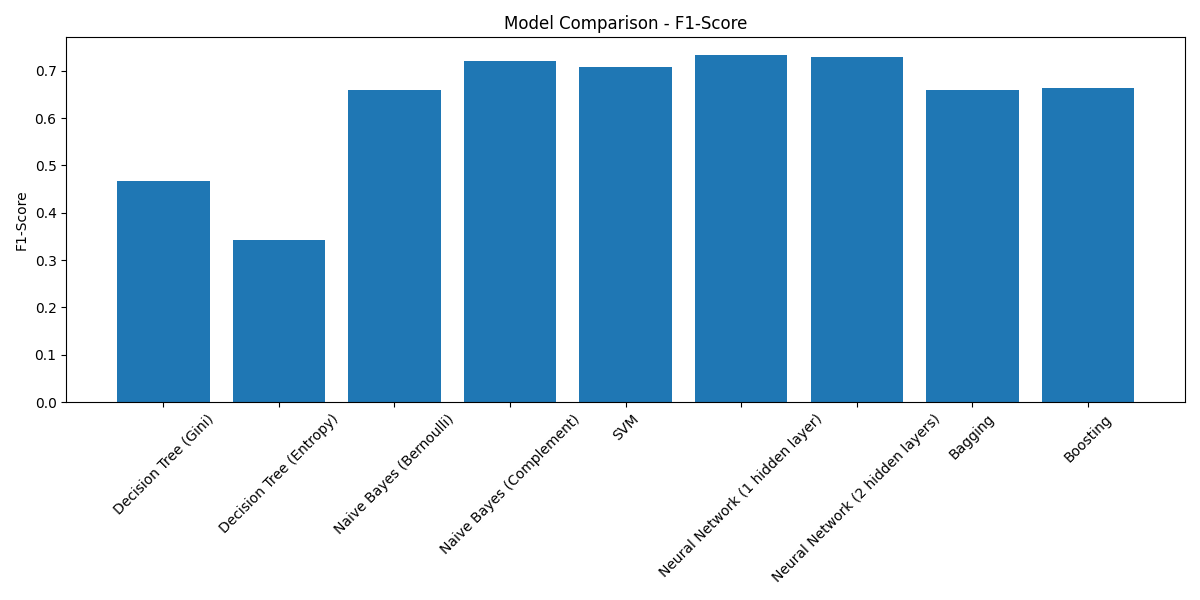
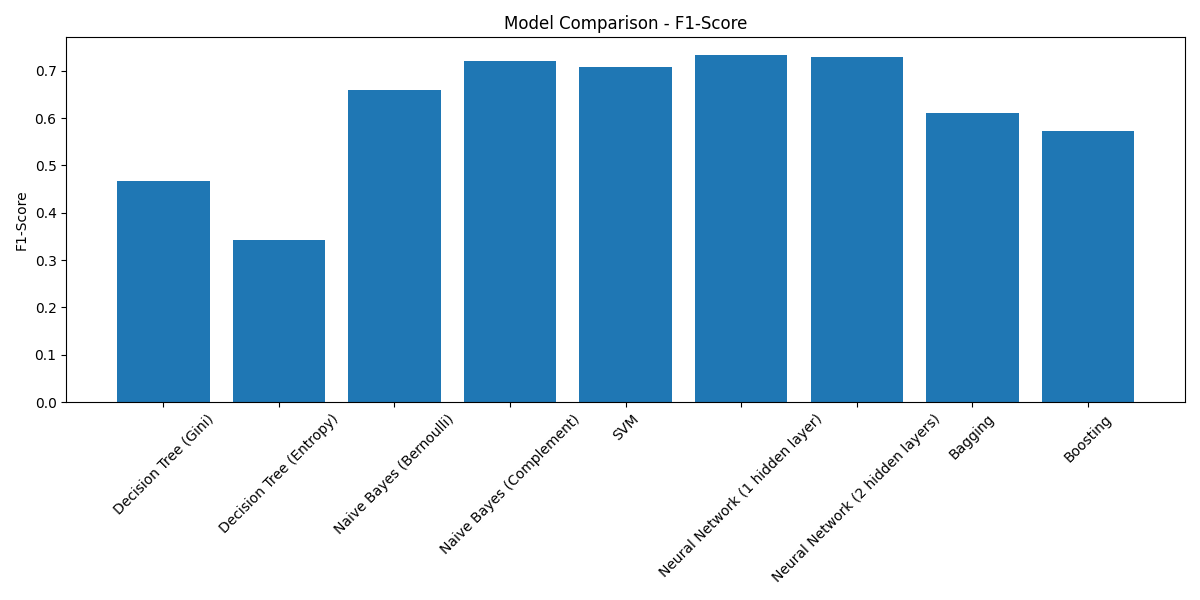
update model parameters, add new results

Changed region(s): [[0.7708, 0.12, 0.9558, 0.24]]

diff --git a/src/models.py b/src/models.py
@@ -8,7 +8,7 @@ def create_models():
     """Create all models"""
     models = {
         'Decision Tree (Gini)': DecisionTreeClassifier(
-            criterion='gini', 
+            criterion='gini',
             random_state=42,
             max_depth=10,
             class_weight='balanced'
@@ -19,36 +19,25 @@ def create_models():
             max_depth=10,
             class_weight='balanced'
         ),
-        'Naive Bayes (Bernoulli)': BernoulliNB(
-            alpha=1.0,
-            binarize=0.0
-        ),
+        'Naive Bayes (Bernoulli)': BernoulliNB(),
         'Naive Bayes (Complement)': ComplementNB(
-            alpha=1.0,
-            norm=True,
-            force_alpha=True
+            norm=True
         ),
         'SVM': LinearSVC(
             random_state=42,
-            max_iter=2000,
-            dual=False,
-            C=1.0, # Regularization parameter
             class_weight='balanced',
-            multi_class='ovr' # One-vs-Rest (OvR) strategy
         ),
         'Neural Network (1 hidden layer)': MLPClassifier(
             hidden_layer_sizes=(100,),
             max_iter=1000,
             random_state=42,
             early_stopping=True,
-            validation_fraction=0.1
         ),
         'Neural Network (2 hidden layers)': MLPClassifier(
             hidden_layer_sizes=(100, 50),
             max_iter=1000,
             random_state=42,
             early_stopping=True,
-            validation_fraction=0.1
         )
     }
     return models
@@ -56,23 +45,20 @@ def create_models():
 def create_ensemble_models():
     """Create ensemble models"""
     simple_tree = DecisionTreeClassifier(
-        max_depth=5,
-        random_state=42
+        random_state=42,
+        max_depth=10,
+        class_weight='balanced'
     )
     
     ensemble_models = {
         'Bagging': BaggingClassifier(
             estimator=simple_tree,
-            n_estimators=10,
-            max_samples=0.7,
-            max_features=0.7,
             random_state=42
         ),
         'Boosting': AdaBoostClassifier(
             estimator=simple_tree,
-            n_estimators=10,
-            learning_rate=0.1,
             random_state=42,
+            n_estimators=10,
             algorithm='SAMME'
         )
     }
